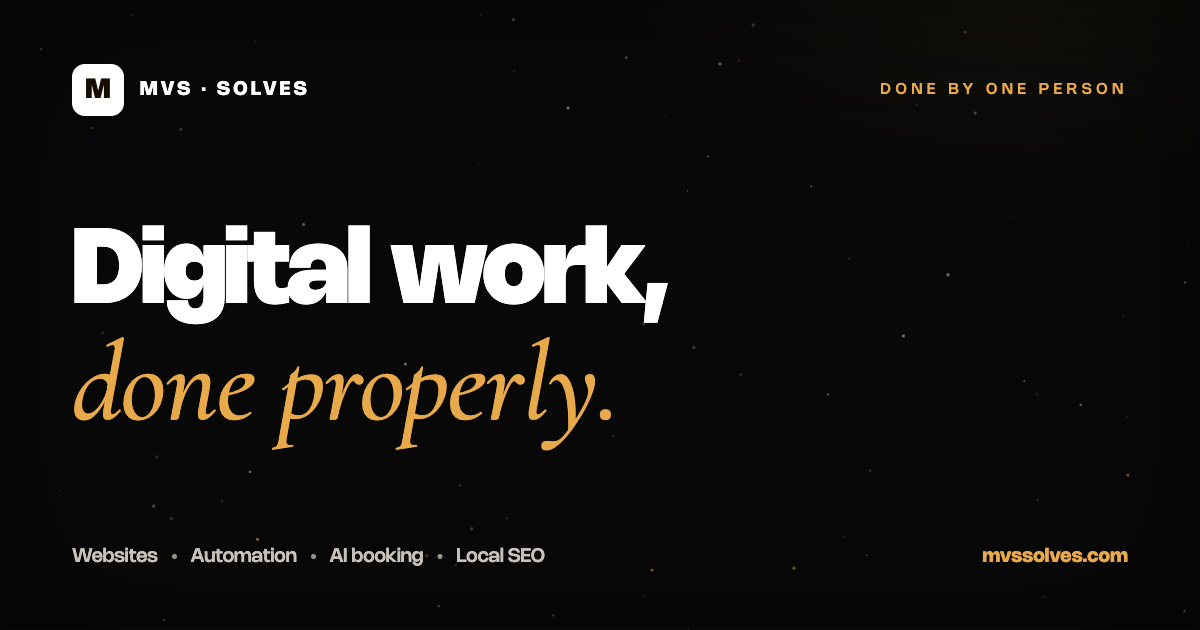
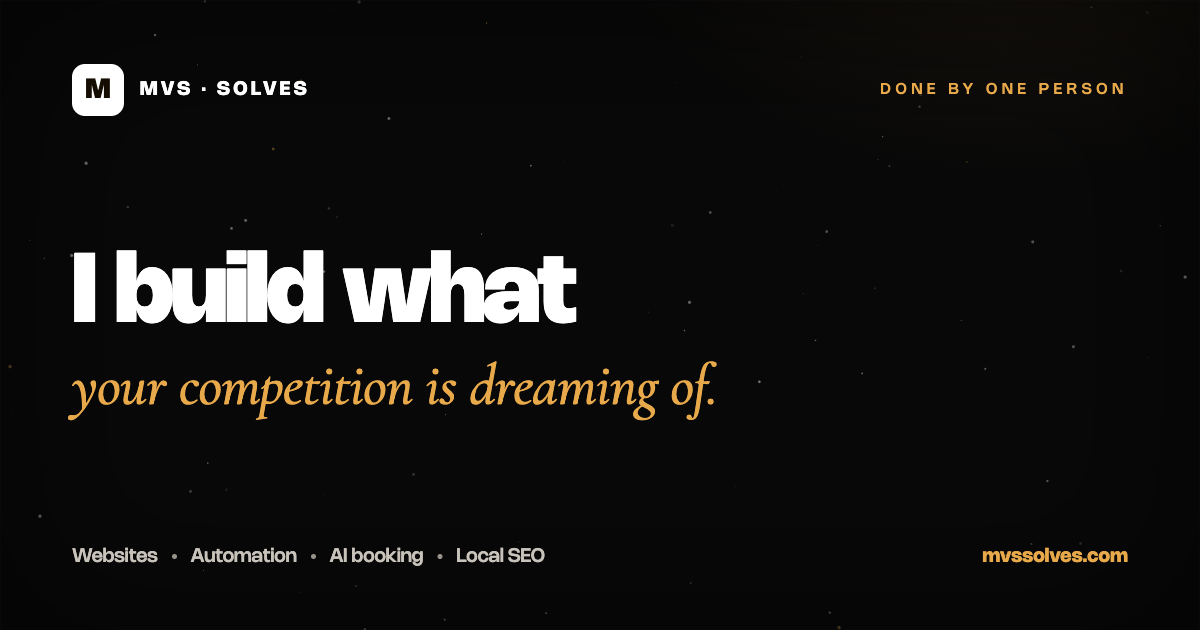
OG card: cockier headline (I build what your competition is dreaming of); drop done-properly line everywhere in meta

diff --git a/index.html b/index.html
@@ -9,19 +9,19 @@
 <link rel="icon" type="image/png" sizes="32x32" href="/favicon-32.png">
 <link rel="icon" type="image/png" sizes="16x16" href="/favicon-16.png">
 <link rel="apple-touch-icon" sizes="180x180" href="/apple-touch-icon.png">
-<meta name="description" content="One person, end-to-end: high-converting websites, online booking &amp; AI automation for local business. Digital work, done properly.">
+<meta name="description" content="High-converting websites, online booking &amp; AI automation for local business — built end-to-end by one person, faster than any agency.">
 <meta name="author" content="Martin · MVS Solves">
 <meta name="robots" content="index,follow">
 <link rel="canonical" href="https://mvssolves.com/">
 <meta property="og:type" content="website">
 <meta property="og:site_name" content="MVS Solves">
 <meta property="og:title" content="MVS Solves — Websites & Automation for Local Business">
-<meta property="og:description" content="One person, end-to-end: high-converting websites, online booking &amp; AI automation for local business. Digital work, done properly.">
+<meta property="og:description" content="High-converting websites, online booking &amp; AI automation for local business — built end-to-end by one person, faster than any agency.">
 <meta property="og:url" content="https://mvssolves.com/">
 <meta property="og:image" content="https://mvssolves.com/og-image.png">
 <meta name="twitter:card" content="summary_large_image">
 <meta name="twitter:title" content="MVS Solves — Websites & Automation for Local Business">
-<meta name="twitter:description" content="One person, end-to-end: high-converting websites, online booking &amp; AI automation for local business. Digital work, done properly.">
+<meta name="twitter:description" content="High-converting websites, online booking &amp; AI automation for local business — built end-to-end by one person, faster than any agency.">
 <meta name="twitter:image" content="https://mvssolves.com/og-image.png">
 <link rel="preconnect" href="https://fonts.googleapis.com">
 <link rel="preconnect" href="https://fonts.gstatic.com" crossorigin>
